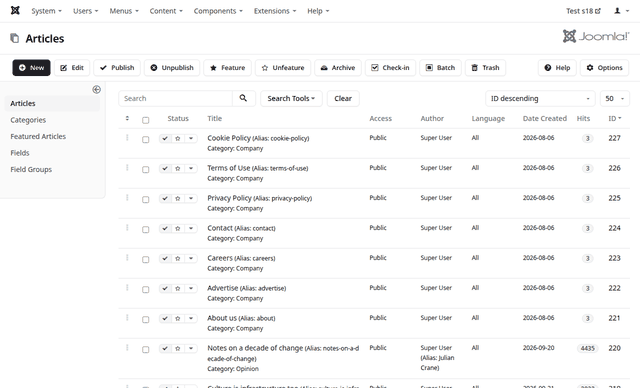
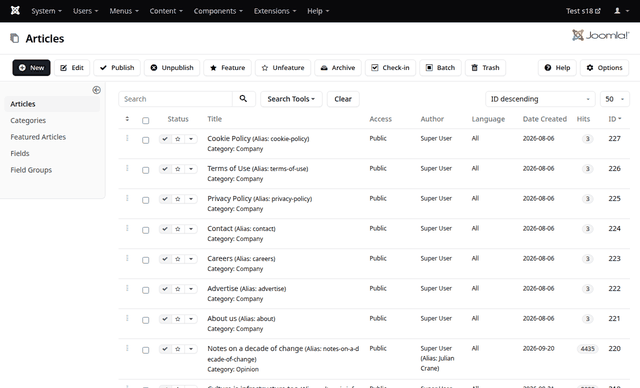
Prothero: the top menu bar dark with white text in light mode, with a Menu Bar Colour option (nine dark presets); the page's colours in dark mode

diff --git a/administrator/templates/prothero/css/template.css b/administrator/templates/prothero/css/template.css
@@ -49,6 +49,12 @@
     --shadow-md:       0 4px 6px -1px rgba(0,0,0,0.1), 0 2px 4px -2px rgba(0,0,0,0.1);
     --shadow-lg:       0 10px 15px -3px rgba(0,0,0,0.1), 0 4px 6px -4px rgba(0,0,0,0.1);
     --ring:            0 0 0 3px rgba(161,161,170,0.5);
+    --c-nav-bg:        var(--nav-color, #09090b);  /* the top menu bar: the Menu Bar Colour option, white text */
+    --c-nav-fg:        #ffffff;
+    --c-nav-soft:      rgba(255,255,255,0.8);
+    --c-nav-muted:     rgba(255,255,255,0.45);
+    --c-nav-hover:     rgba(255,255,255,0.14);
+    --c-nav-border:    rgba(255,255,255,0.12);
     --radius:          6px;
     --radius-lg:       8px;
     --font-sans:       system-ui, -apple-system, "Segoe UI", Roboto, "Helvetica Neue", Arial, "Noto Sans", sans-serif;
@@ -98,6 +104,12 @@
     --shadow-md:       0 4px 6px -1px rgba(0,0,0,0.4), 0 2px 4px -2px rgba(0,0,0,0.4);
     --shadow-lg:       0 10px 15px -3px rgba(0,0,0,0.5), 0 4px 6px -4px rgba(0,0,0,0.5);
     --ring:            0 0 0 3px rgba(113,113,122,0.5);
+    --c-nav-bg:        #09090b;  /* the page's colours: the option's colours would glare */
+    --c-nav-fg:        #fafafa;
+    --c-nav-soft:      #d4d4d8;
+    --c-nav-muted:     #71717a;
+    --c-nav-hover:     #27272a;
+    --c-nav-border:    #27272a;
 }
 @media (prefers-color-scheme:dark) {
     :root[data-scheme="auto"] {
@@ -143,8 +155,23 @@
         --shadow-md:       0 4px 6px -1px rgba(0,0,0,0.4), 0 2px 4px -2px rgba(0,0,0,0.4);
         --shadow-lg:       0 10px 15px -3px rgba(0,0,0,0.5), 0 4px 6px -4px rgba(0,0,0,0.5);
         --ring:            0 0 0 3px rgba(113,113,122,0.5);
+        --c-nav-bg:        #09090b;  /* the page's colours: the option's colours would glare */
+        --c-nav-fg:        #fafafa;
+        --c-nav-soft:      #d4d4d8;
+        --c-nav-muted:     #71717a;
+        --c-nav-hover:     #27272a;
+        --c-nav-border:    #27272a;
     }
 }
+/* The Menu Bar Colour option (data-navbar on <html>): dark colours white text reads well on; light mode only */
+:root[data-navbar="graphite"] {--nav-color:#27272a;}
+:root[data-navbar="navy"] {--nav-color:#172554;}
+:root[data-navbar="blue"] {--nav-color:#1e3a8a;}
+:root[data-navbar="indigo"] {--nav-color:#312e81;}
+:root[data-navbar="purple"] {--nav-color:#3b0764;}
+:root[data-navbar="wine"] {--nav-color:#4c0519;}
+:root[data-navbar="teal"] {--nav-color:#134e4a;}
+:root[data-navbar="forest"] {--nav-color:#14532d;}
 
 
 /* --- Page transitions --- */
@@ -804,7 +831,9 @@ button.btn::-moz-focus-inner,input[type="submit"].btn::-moz-focus-inner {padding
 .navbar .pull-right > li > .dropdown-menu:before,.navbar .nav > li > .dropdown-menu.pull-right:before {left:auto;right:12px;}
 .navbar .pull-right > li > .dropdown-menu:after,.navbar .nav > li > .dropdown-menu.pull-right:after {left:auto;right:13px;}
 .navbar .pull-right > li > .dropdown-menu .dropdown-menu,.navbar .nav > li > .dropdown-menu.pull-right .dropdown-menu {left:auto;right:100%;margin-left:0;margin-right:4px;border-radius:var(--radius-lg);}
-.navbar-inverse .navbar-inner {background-color:var(--c-bg);border-color:var(--c-border);}
+.navbar-inverse .navbar-inner {background-color:var(--c-nav-bg);border-color:var(--c-nav-border);}
+/* The bar's own links and buttons take its colours (the menus they open keep the page's) */
+.navbar-inverse .admin-logo,.navbar-inverse .brand,.navbar-inverse .nav > li > a,.navbar-inverse .btn-navbar {--c-fg:var(--c-nav-fg);--c-fg-soft:var(--c-nav-soft);--c-muted-fg:var(--c-nav-muted);--c-muted:var(--c-nav-hover);--c-card:transparent;--c-input:var(--c-nav-border);}
 .navbar-inverse .brand,.navbar-inverse .nav > li > a {color:var(--c-fg-soft);}
 .navbar-inverse .brand:hover,.navbar-inverse .brand:focus,.navbar-inverse .nav > li > a:hover,.navbar-inverse .nav > li > a:focus {color:var(--c-fg);}
 .navbar-inverse .brand {color:var(--c-fg-soft);}
@@ -1944,7 +1973,7 @@ body.modal-open {-ms-overflow-style:none;}
 body .navbar,body .navbar-fixed-top {margin-bottom:0;}
 .navbar-inner {min-height:0;background:var(--c-bg);}
 .navbar-inner .container-fluid {padding-left:10px;padding-right:10px;font-size:14px;}
-.navbar-inverse .navbar-inner {background:var(--c-bg);}
+.navbar-inverse .navbar-inner {background:var(--c-nav-bg);}
 .navbar .navbar-text {line-height:30px;}
 .navbar .admin-logo {float:left;padding:12px 12px 0 12px;font-size:17px;color:var(--c-fg);}
 .navbar .admin-logo:hover {color:var(--c-fg-soft);}
@@ -1994,6 +2023,8 @@ body .navbar,body .navbar-fixed-top {margin-bottom:0;}
     .nav-collapse .dropdown-menu {margin:0;}
     .nav-collapse .dropdown-menu > li > span {display:block;padding:4px 15px;}
     .navbar-inverse .nav-collapse .dropdown-menu > li > span {color:var(--c-muted-fg);}
+    /* The opened menu sits on the bar: its colours */
+    .navbar-inverse .nav-collapse {--c-fg:var(--c-nav-fg);--c-fg-soft:var(--c-nav-soft);--c-muted-fg:var(--c-nav-muted);--c-muted:var(--c-nav-hover);--c-subtle:var(--c-nav-hover);--c-border:var(--c-nav-border);color:var(--c-nav-fg);}
     .nav-collapse .nav > li > a.dropdown-toggle {margin:0;padding-left:15px;font-size:12px;font-weight:500;color:var(--c-muted-fg);background-color:var(--c-subtle);text-transform:none;}
     .nav-collapse .nav li a {margin:0;border-top:1px solid var(--c-border);}
     .nav-collapse .nav li ul li ul.dropdown-menu,.nav-collapse .nav li ul li:hover ul.dropdown-menu,.nav-collapse .caret {display:none !important;}

diff --git a/administrator/templates/prothero/helper.php b/administrator/templates/prothero/helper.php
@@ -34,6 +34,30 @@ if (!function_exists('protheroScheme'))
 	}
 }
 
+if (!function_exists('protheroNavbarColor'))
+{
+	/**
+	 * The Menu Bar Colour option, for the data-navbar attribute of <html> (css/template.css has a colour for each; black has none).
+	 *
+	 * @param   mixed  $params  The template style's options (a Registry), or null
+	 *
+	 * @return  string
+	 */
+	function protheroNavbarColor($params)
+	{
+		try
+		{
+			$color = is_object($params) ? (string) $params->get('navbarColor', 'black') : 'black';
+		}
+		catch (Exception $e)
+		{
+			$color = 'black';
+		}
+
+		return in_array($color, array('graphite', 'navy', 'blue', 'indigo', 'purple', 'wine', 'teal', 'forest'), true) ? $color : 'black';
+	}
+}
+
 if (!function_exists('protheroLogo'))
 {
 	/**

diff --git a/administrator/templates/prothero/error.php b/administrator/templates/prothero/error.php
@@ -59,9 +59,10 @@ $stickyToolbar = $params->get('stickyToolbar', '1');
 require_once __DIR__ . '/helper.php';
 
 $scheme = protheroScheme($params);
+$navbar = protheroNavbarColor($params);
 ?>
 <!DOCTYPE html>
-<html lang="<?php echo $this->language; ?>" dir="<?php echo $this->direction; ?>" data-scheme="<?php echo $scheme; ?>">
+<html lang="<?php echo $this->language; ?>" dir="<?php echo $this->direction; ?>" data-scheme="<?php echo $scheme; ?>" data-navbar="<?php echo $navbar; ?>">
 <head>
 	<meta charset="utf-8" />
 	<meta name="viewport" content="width=device-width, initial-scale=1.0">

diff --git a/administrator/templates/prothero/index.php b/administrator/templates/prothero/index.php
@@ -101,7 +101,7 @@ if ($stickyToolbar)
 }
 ?>
 <!DOCTYPE html>
-<html lang="<?php echo $this->language; ?>" dir="<?php echo $this->direction; ?>" data-scheme="<?php echo protheroScheme($this->params); ?>">
+<html lang="<?php echo $this->language; ?>" dir="<?php echo $this->direction; ?>" data-scheme="<?php echo protheroScheme($this->params); ?>" data-navbar="<?php echo protheroNavbarColor($this->params); ?>">
 <head>
 	<meta name="viewport" content="width=device-width, initial-scale=1.0">
 	<jdoc:include type="head" />

diff --git a/CHANGELOG.md b/CHANGELOG.md
@@ -3,7 +3,7 @@
 ## Version 3.18 - unreleased [pending]
 
 ### New features
-- **Prothero**, a new administrator template, shipped alongside Isis (Isis stays the default; switch in System > Templates > Administrator Templates). It has Isis' markup, element positions, overrides, module chrome and scripts, so extensions made for Isis work with it unchanged (only code checking for the template's name `isis` sees a different template); what changes is the look: minimal, black and white, after shadcn/ui's and Vercel's designs. Colours are CSS custom properties with a light and a dark set: the **Colour Scheme** option (Automatic, the default, follows the device; or Light, or Dark) is written as `data-scheme` on every page, the error page and modal windows included. Buttons are outlined, with Save and New (Bootstrap's primary and success classes) filled in the text colour; tabs are underlined; menus, popovers and modals are bordered panels; Chosen's select boxes, the Yes/No switches and the media field match. Colour is kept for meaning only: errors and destructive actions in red, success in green, warnings in amber, published/unpublished states and their selects tinted. The header shows the page title on a plain bar with Joomla's logo in its colours, as in the installer (its wordmark in the text colour, for dark mode), or the Logo option's image, the toolbar and status bar are plain bars, and Isis' four colour options are not offered. The login page has Isis' layout, form and keyboard order, with a flat dark panel for the site's name instead of the gradient, and the form on the page's colour; on phones the form is a bordered card. Plain CSS (`css/template.css`, Bootstrap 2.3.2's rules restyled, then the template's own sections; `css/template-rtl.css` with only the right-to-left overrides) and system fonts. Removable like Isis; new sites get it installed, existing sites through `3.18.0-2026-10-12.sql` (for sites updating from before 3.18), neither as the default. Stylesheets core code adds with fixed light colours (the TinyMCE options' toolbar builder and headings, the colour picker, the old modal) follow its colours; the Sample Data module's separators and descriptions no longer use fixed greys either. Verified with screenshots of 32 administrator pages and the login page, at 1280px and 390px, light and dark, left to right and right to left, plus open menus, Chosen lists, modals and popovers; an administrator crawl (210 pages) without errors, warnings or deprecations; installing from the migration twice (one row each), and uninstalling it.
+- **Prothero**, a new administrator template, shipped alongside Isis (Isis stays the default; switch in System > Templates > Administrator Templates). It has Isis' markup, element positions, overrides, module chrome and scripts, so extensions made for Isis work with it unchanged (only code checking for the template's name `isis` sees a different template); what changes is the look: minimal, black and white, after shadcn/ui's and Vercel's designs. Colours are CSS custom properties with a light and a dark set: the **Colour Scheme** option (Automatic, the default, follows the device; or Light, or Dark) is written as `data-scheme` on every page, the error page and modal windows included. Buttons are outlined, with Save and New (Bootstrap's primary and success classes) filled in the text colour; tabs are underlined; menus, popovers and modals are bordered panels; Chosen's select boxes, the Yes/No switches and the media field match. Colour is kept for meaning only: errors and destructive actions in red, success in green, warnings in amber, published/unpublished states and their selects tinted. The header shows the page title on a plain bar with Joomla's logo in its colours, as in the installer (its wordmark in the text colour, for dark mode), or the Logo option's image, the toolbar and status bar are plain bars. The top menu bar is black with white text, or one of eight other dark colours (the **Menu Bar Colour** option: graphite, navy, blue, indigo, purple, wine, teal, forest green), in light mode only: in dark mode it takes the page's colours, as a coloured bar would glare; its menus keep the page's colours. Isis' four colour options are not offered. The login page has Isis' layout, form and keyboard order, with a flat dark panel for the site's name instead of the gradient, and the form on the page's colour; on phones the form is a bordered card. Plain CSS (`css/template.css`, Bootstrap 2.3.2's rules restyled, then the template's own sections; `css/template-rtl.css` with only the right-to-left overrides) and system fonts. Removable like Isis; new sites get it installed, existing sites through `3.18.0-2026-10-12.sql` (for sites updating from before 3.18), neither as the default. Stylesheets core code adds with fixed light colours (the TinyMCE options' toolbar builder and headings, the colour picker, the old modal) follow its colours; the Sample Data module's separators and descriptions no longer use fixed greys either. Verified with screenshots of 32 administrator pages and the login page, at 1280px and 390px, light and dark, left to right and right to left, plus open menus, Chosen lists, modals and popovers; an administrator crawl (210 pages) without errors, warnings or deprecations; installing from the migration twice (one row each), and uninstalling it.
 
 ### Improvements
 - More core extensions can be uninstalled entirely, at the site admin's request: the Articles, Private Messages, Privacy, Redirect, Tags and Wrapper components (each with its companion modules and plugins, e.g. Redirect with "System - Redirect", Tags with its two modules and its search plugins, Articles with its modules and its content, editor button, search, privacy and sample data plugins), the Breadcrumbs and Syndication Feeds site modules and the CodeMirror editor. New sites have them unlocked in the install SQL, existing sites get them unlocked by `3.18.0-2026-10-10.sql`; "Restore uninstalled core extensions" brings each back with its companions (Redirect's plugin disabled, as it ships). What depends on them now checks they're there:

diff --git a/README.md b/README.md
@@ -51,7 +51,7 @@ Summary of changes:
 - Prothero, a new black and white administrator template with a dark mode, alongside Isis and compatible with the same extensions
 
 **New features:**
-- Prothero, a new administrator template next to Isis: Isis' markup (so extensions made for Isis work with it), with a minimal black and white look in the style of shadcn/ui and Vercel, light and dark colour schemes (automatic by default) and a matching login page. Isis stays the default; choose Prothero in System > Templates
+- Prothero, a new administrator template next to Isis: Isis' markup (so extensions made for Isis work with it), with a minimal black and white look in the style of shadcn/ui and Vercel, light and dark colour schemes (automatic by default), a choice of colours for the top menu bar and a matching login page. Isis stays the default; choose Prothero in System > Templates
 
 **Improvements:**
 - More core extensions can be uninstalled entirely: Articles, Private Messages, Privacy, Redirect, Tags and Wrapper (with the modules and plugins that only serve them), the Breadcrumbs and Syndication Feeds modules and the CodeMirror editor. The administrator's quick icons, menu and status bar, article tags and Contacts work without them
